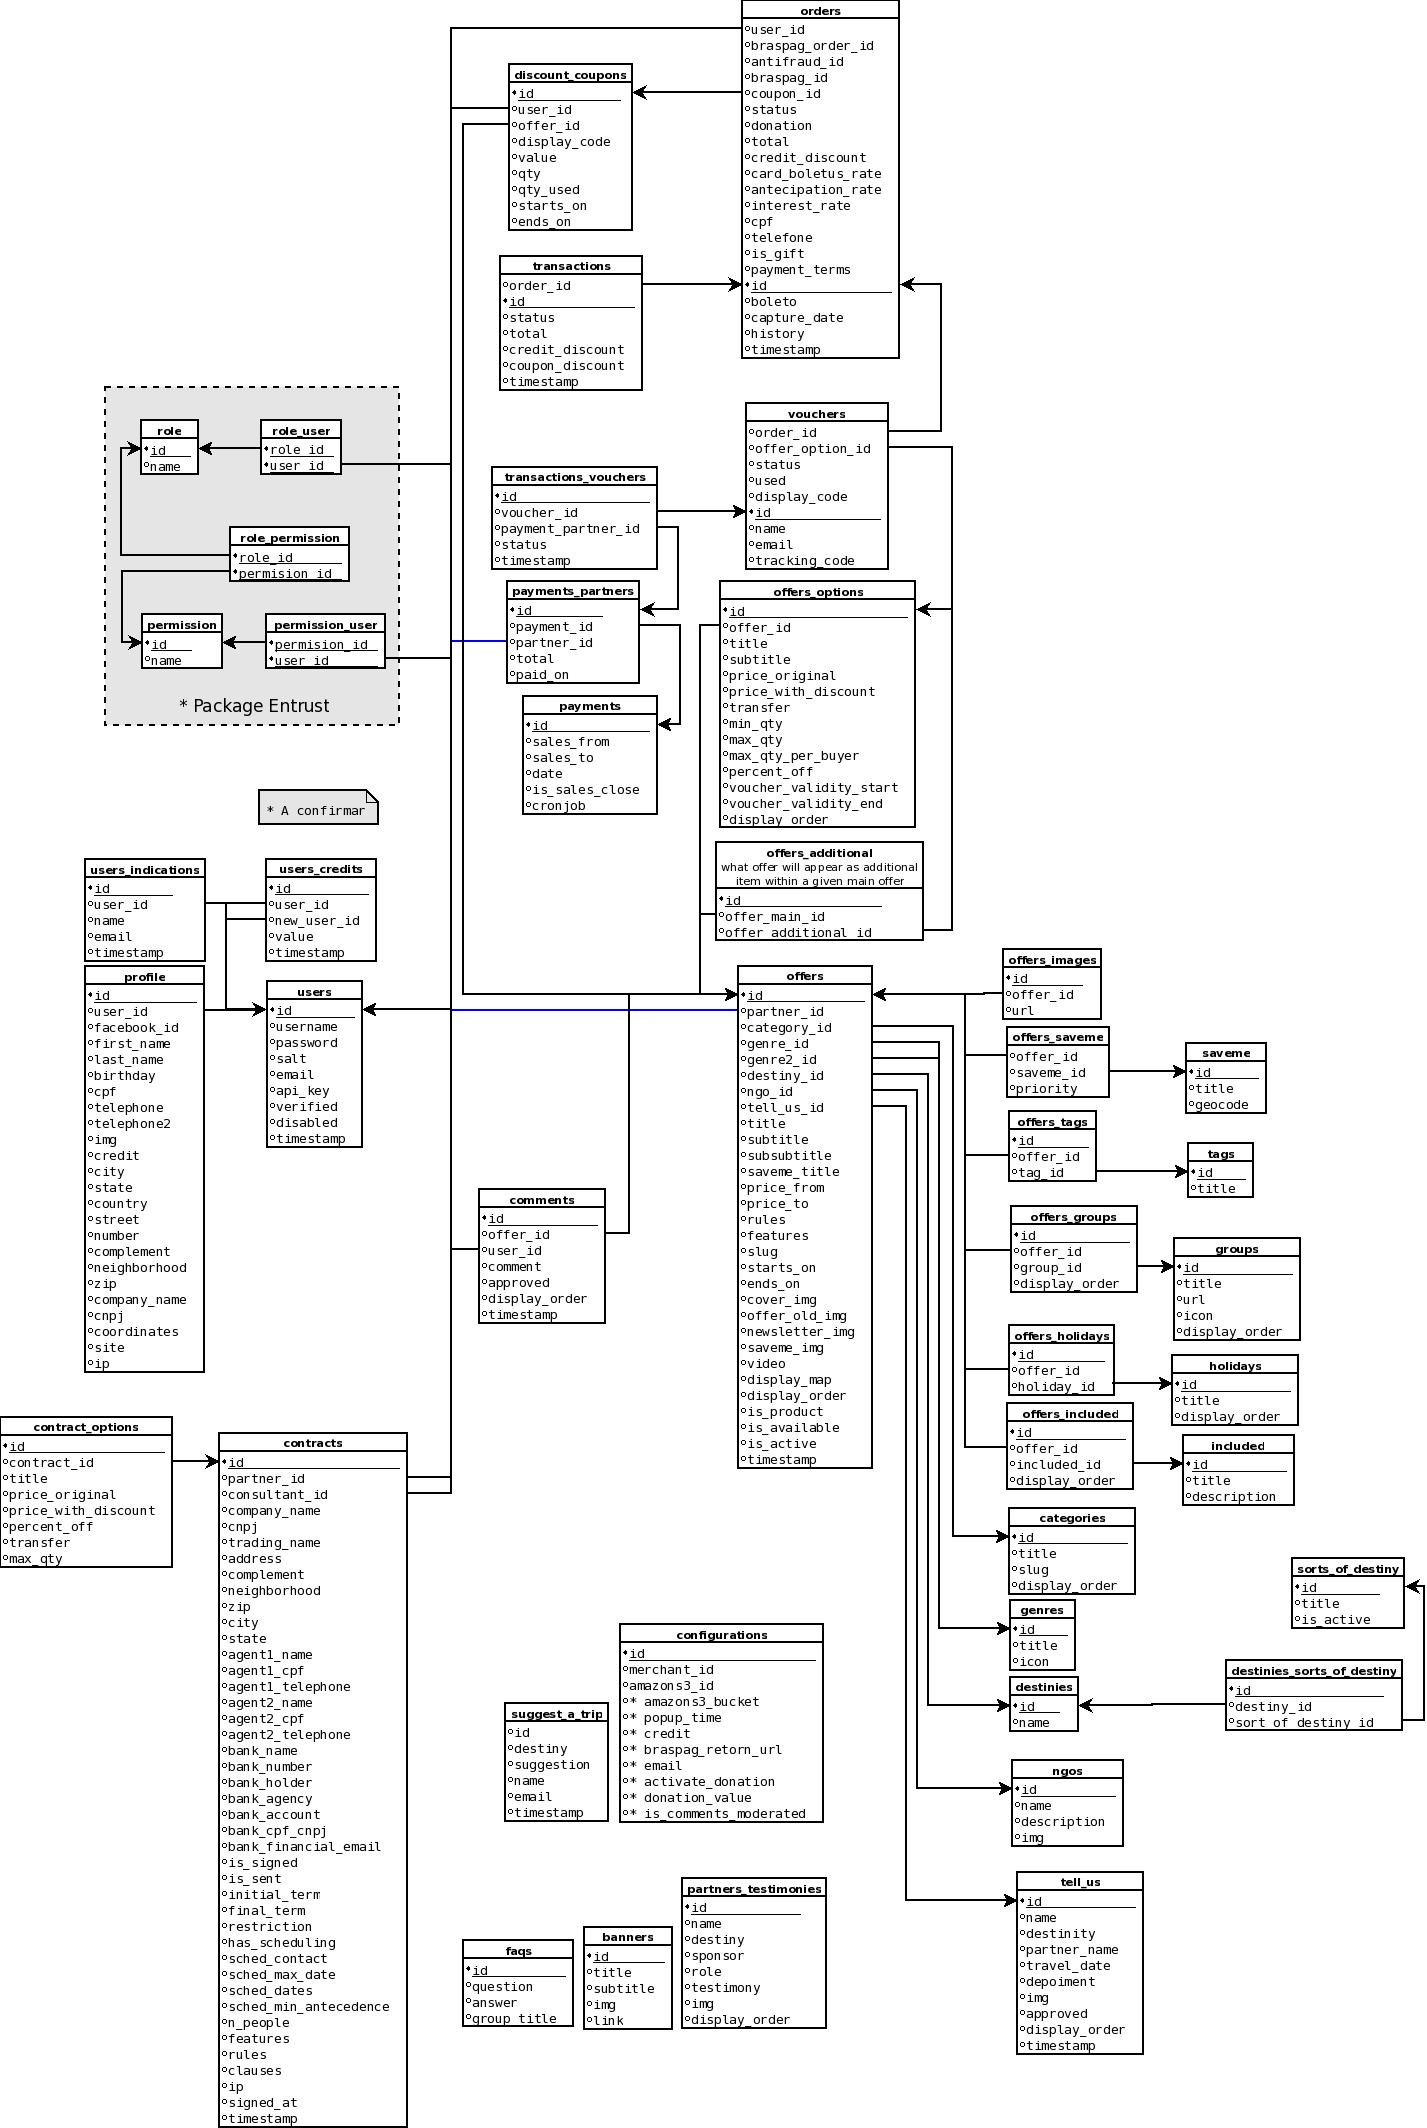
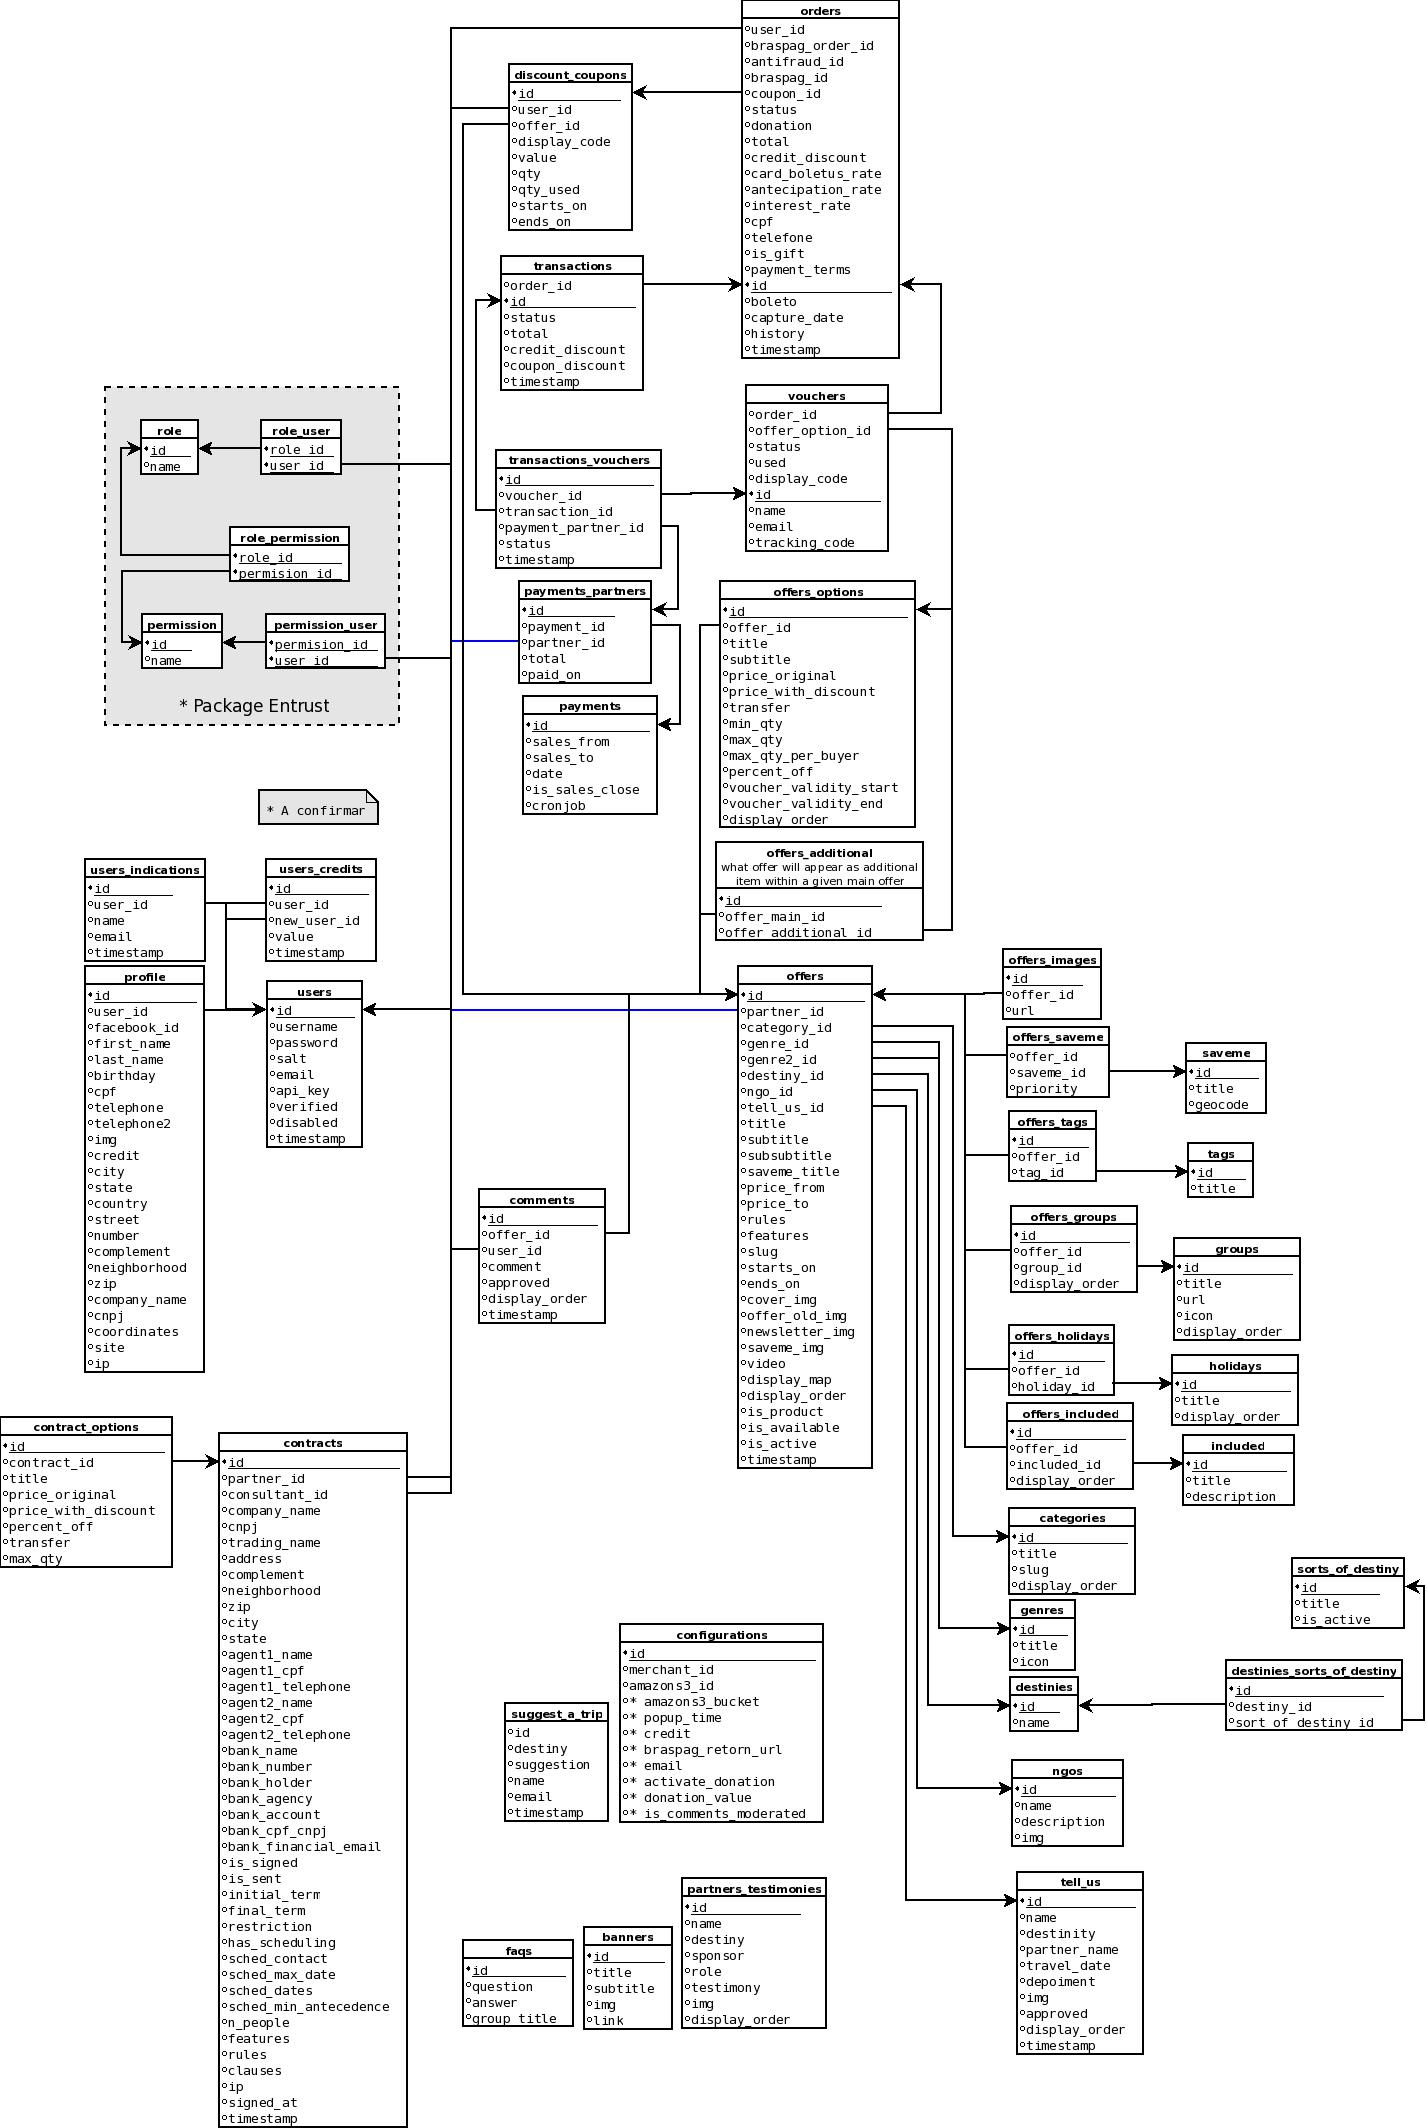
Relacionando vouchers com transactions via transcations_vouchers, através de triggers

Changed region(s): [[0.3392, 0.1861, 0.6475, 0.3412], [0.3392, 0.1241, 0.4317, 0.1861]]

diff --git a/app/views/admin/transaction/list.blade.php b/app/views/admin/transaction/list.blade.php
@@ -30,7 +30,7 @@
 		</div>
 	</div>
 	<style type="text/css">
-	.column-totall{
+	.column-voucherValue, .column-paid, .column-transfer, .column-cardTax, .column-antecipationTax, .column-gain{
 		text-align: right;
 	}
 	</style>
@@ -64,19 +64,19 @@
 			}
 			return '--';
 		})
-		->statuss(function($transaction) {
-			if(isset($transaction->created_at)){
-				return '--';
-			}
-			return '--';
-		})
 		->orderr(function($transaction) {
-			if(isset($transaction->created_at)){
-				return '--';
+			if(isset($transaction->status)){
+				return link_to_route('admin.order.view', $transaction->order->braspag_order_id, ['id' => $transaction->order->id]);
 			}
 			return '--';
 		})
-		->voucher(function($transaction) {
+		->statuss(function($transaction) {
+			if(isset($transaction->order->braspag_order_id)){
+				return $transaction->status;
+			}
+			return '--';
+		})
+		->voucherValue(function($transaction) {
 			if(isset($transaction->created_at)){
 				return '--';
 			}
@@ -94,13 +94,13 @@
 			}
 			return '--';
 		})
-		->card_tax(function($transaction) {
+		->cardTax(function($transaction) {
 			if(isset($transaction->created_at)){
 				return '--';
 			}
 			return '--';
 		})
-		->antecipation_tax(function($transaction) {
+		->antecipationTax(function($transaction) {
 			if(isset($transaction->created_at)){
 				return '--';
 			}
@@ -116,6 +116,7 @@
 	<thead>
 		<tr>
 		<th>Total</th>
+		<th></th>
 		<th></th>
 		<th></th>
 		<th style="text-align: right;">{{ number_format(1, 2, ',', '.') }}</th>

diff --git a/app/database/seeds/Triggers.php b/app/database/seeds/Triggers.php
@@ -13,23 +13,23 @@ class Triggers extends DatabaseSeeder
 
 
 
-		$triggers = 'DROP TRIGGER IF EXISTS inst_transaction;';
+		$triggers = 'DROP TRIGGER IF EXISTS inst_order;';
 		if(!$mysqli->query($triggers)) print_r($mysqli->error);
 
-		$triggers = file_get_contents(app_path().'/database/seeds/assets/Triggers/inst_transaction.sql');
-		if(!$mysqli->query($triggers)) print_r($mysqli->error);
-
-
-
-		$triggers = 'DROP TRIGGER IF EXISTS upd_transaction;';
-		if(!$mysqli->query($triggers)) print_r($mysqli->error);
-
-		$triggers = file_get_contents(app_path().'/database/seeds/assets/Triggers/upd_transaction.sql');
+		$triggers = file_get_contents(app_path().'/database/seeds/assets/Triggers/inst_order.sql');
 		if(!$mysqli->query($triggers)) print_r($mysqli->error);
 
 
 
-		$triggers = 'DROP PROCEDURE IF EXISTS inst_transaction_partial_cancellation;';
+		$triggers = 'DROP TRIGGER IF EXISTS upd_order;';
+		if(!$mysqli->query($triggers)) print_r($mysqli->error);
+
+		$triggers = file_get_contents(app_path().'/database/seeds/assets/Triggers/upd_order.sql');
+		if(!$mysqli->query($triggers)) print_r($mysqli->error);
+
+
+
+		$triggers = 'DROP FUNCTION IF EXISTS inst_transaction_partial_cancellation;';
 		if(!$mysqli->query($triggers)) print_r($mysqli->error);
 
 		$triggers = file_get_contents(app_path().'/database/seeds/assets/Triggers/inst_transaction_partial_cancellation.sql');

diff --git a/app/database/migrations/0000_00_00_000039_setup_transactions_vouchers_table.php b/app/database/migrations/0000_00_00_000039_setup_transactions_vouchers_table.php
@@ -24,6 +24,7 @@ class SetupTransactionsVouchersTable extends Migration {
          */
 		$table->increments('id');
         $table->integer('voucher_id')->unsigned()->index();
+        $table->integer('transaction_id')->unsigned()->index()->nullable();
         $table->integer('payment_partner_id')->unsigned()->index()->nullable();
         $table->enum('status', array('pagamento', 'cancelamento'))->default('pagamento');
 
@@ -31,6 +32,7 @@ class SetupTransactionsVouchersTable extends Migration {
          * Foreign Keys
          */
         $table->foreign('voucher_id')->references('id')->on('vouchers'); // COM OU SEM "ON DELETE CASCATE"?
+        $table->foreign('transaction_id')->references('id')->on('transactions'); // COM OU SEM "ON DELETE CASCATE"?
         $table->foreign('payment_partner_id')->references('id')->on('payments_partners'); // COM OU SEM "ON DELETE CASCATE"?
 
         /*

diff --git a/app/views/admin/order/view.blade.php b/app/views/admin/order/view.blade.php
@@ -34,7 +34,7 @@
             <div class="controls">R${{ number_format($order->credit_discount, '2', ',', '.') }}</div>
 
             <b class="control-label">Cupom de desconto usado nesta compra</b>
-            <div class="controls">{{ isset($order->discount_coupon)?('R$'.number_format($order->discount_coupon->value, '2', ',', '.').' | '.$order->discount_coupon->display_code):'Nenhum' }}</div>
+            <div class="controls">{{ isset($order->discount_coupon)?('R$'.number_format($order->discount_coupon->value, '2', ',', '.').' | '.link_to_route('admin.coupon', $order->discount_coupon->display_code, ['display_code' => $order->discount_coupon->display_code], ['title' => 'Ver cupom de desconto'])):'Nenhum' }}</div>
 
             <b class="control-label">Meio de pagamento</b>
             <div class="controls">{{ $order->payment_terms }}</div>

diff --git a/app/controllers/AdminPaymentController.php b/app/controllers/AdminPaymentController.php
@@ -209,6 +209,7 @@ class AdminPaymentController extends BaseController {
 															'partner_name' => Input::get('partner_name'),
 															'payment_id' => Input::get('payment_id'),
 													  ]);
+													  // ->get()->toArray(); print('<pre>'); print_r($transactionVoucherData); print('</pre>'); die();
 
 		$totals = [];
 		$totals['transfer'] = 0;
